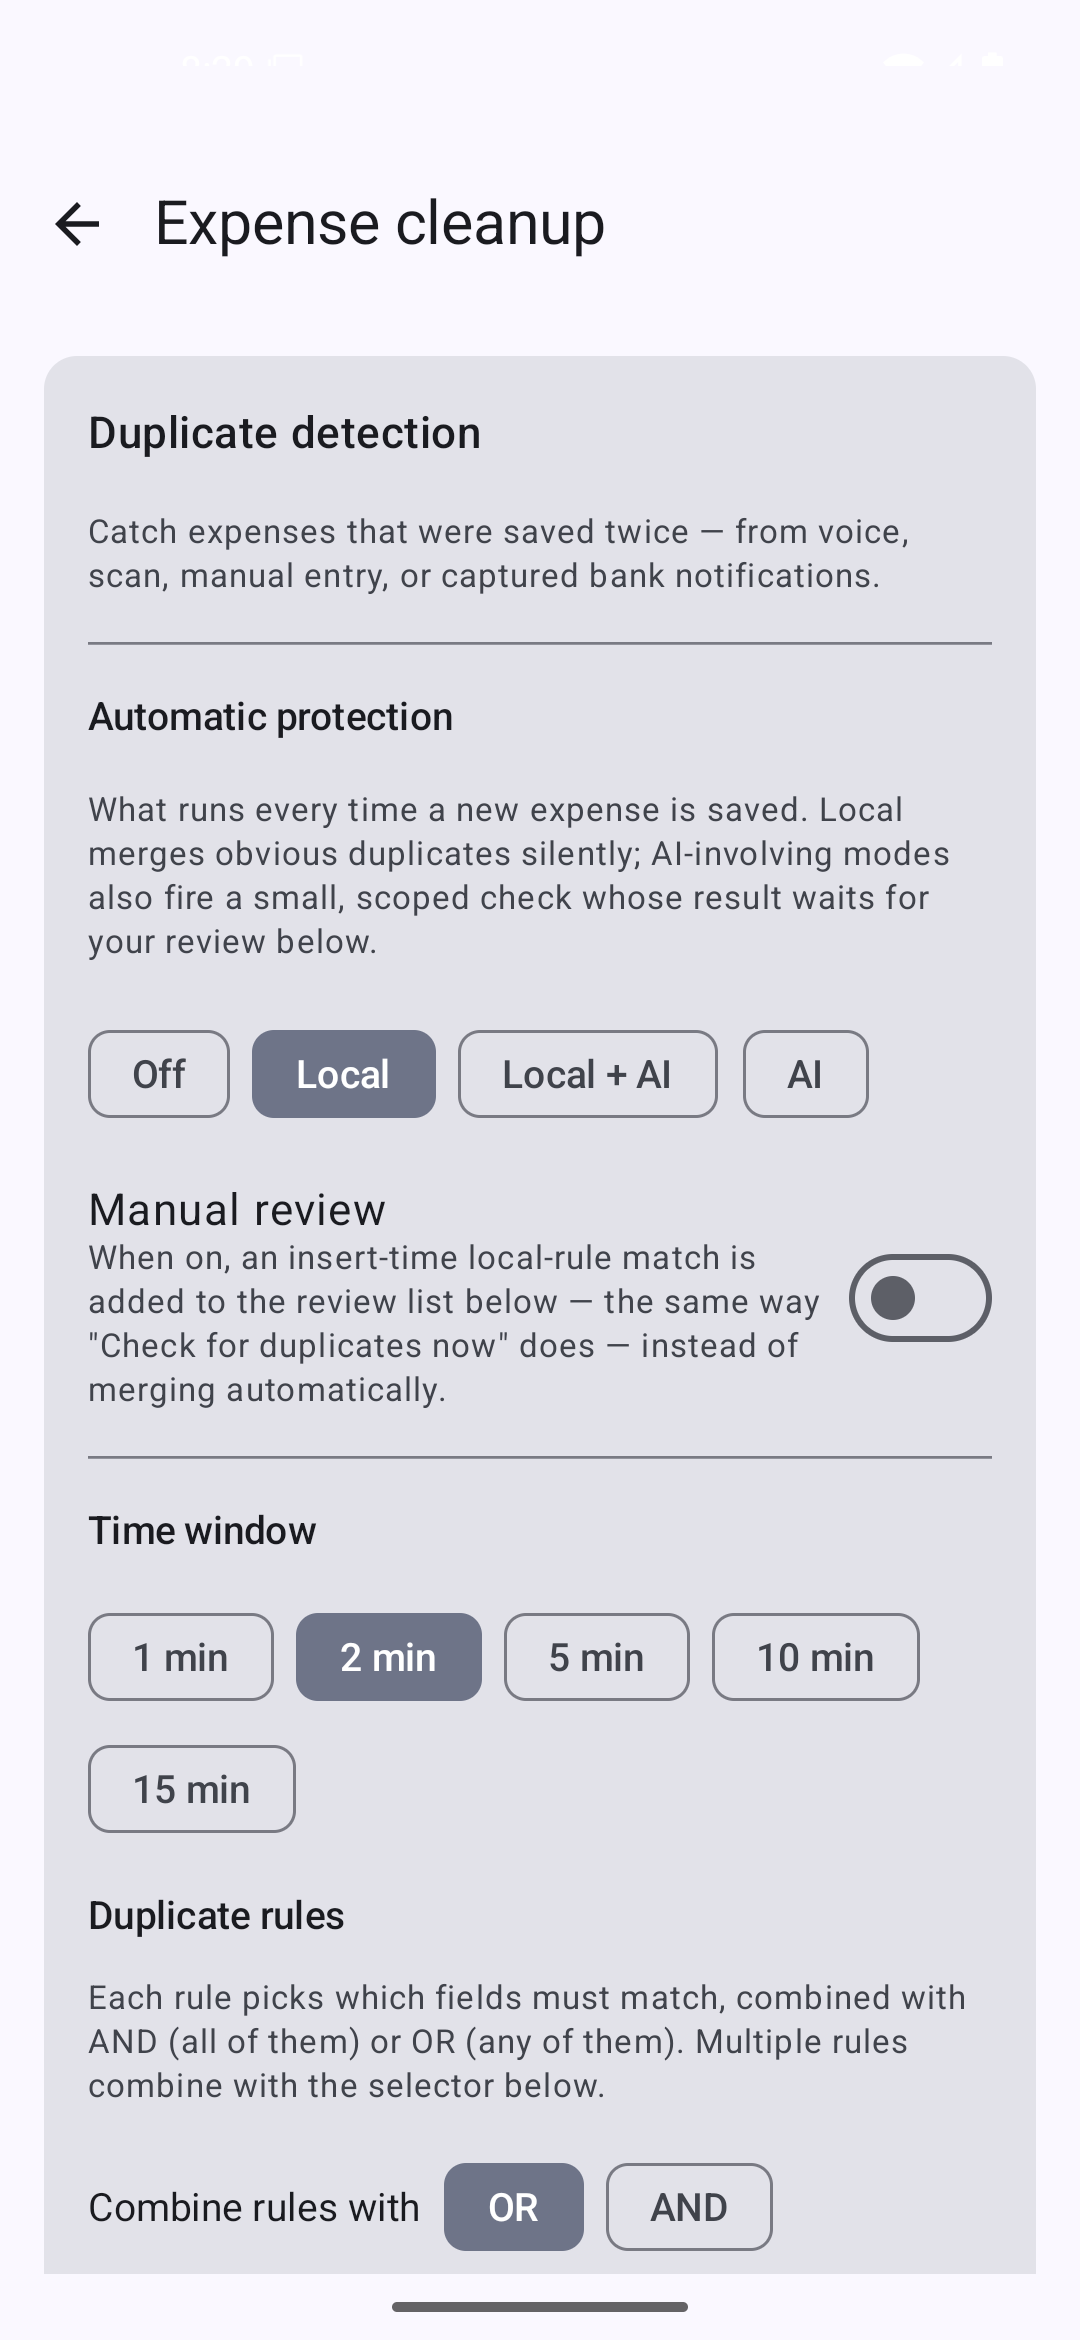
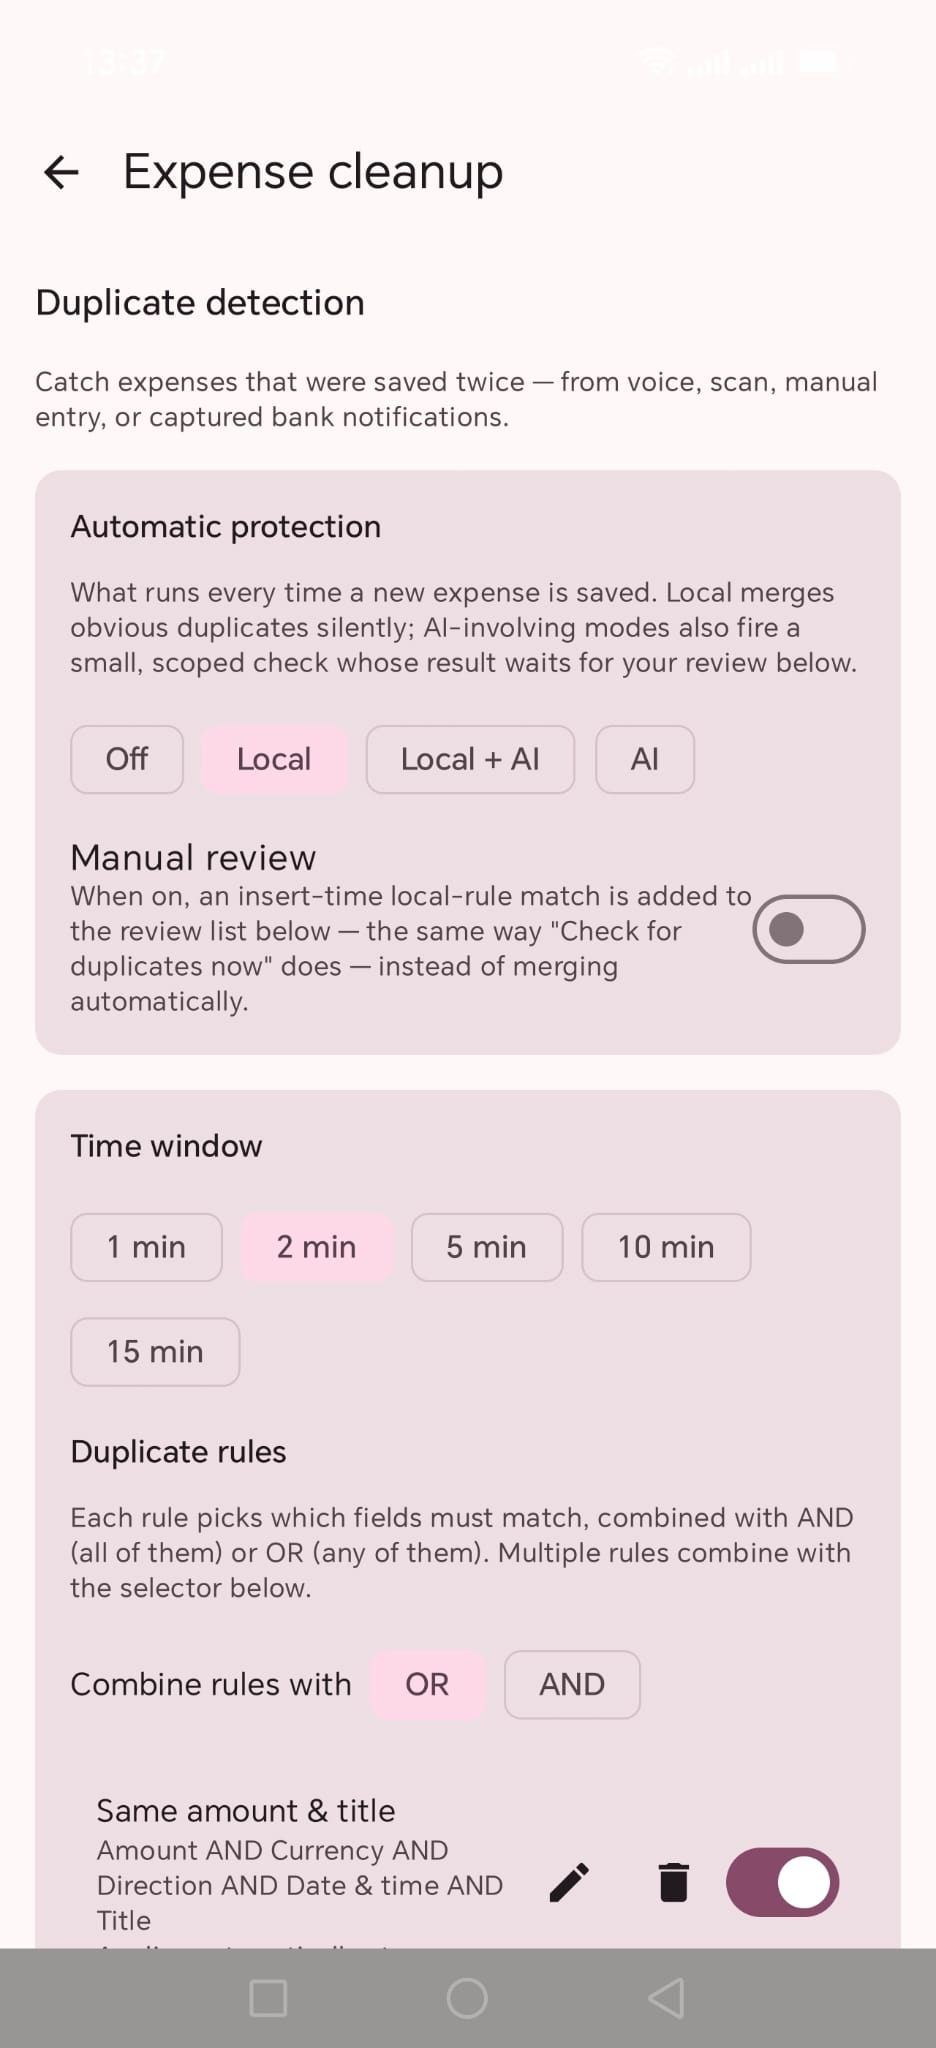
feat(notes,expenses,calendar): scrollable widgets + header tap-to-open
Widget content lists now use Glance's LazyColumn instead of a plain
Column, so long lists scroll instead of clipping; the +Add button
stays pinned outside the scroll area. Tapping the widget header now
launches the app directly. Fixes a rendering bug found along the way:
Notes' per-day content wasn't wrapped in a single root Column inside
the LazyColumn item, which Glance/RemoteViews requires — without it,
rows overlapped instead of stacking.

Also updates vox-expenses' fastlane duplicate-detection screenshots
to reflect the current cleanup UI.

Changed region(s): [[0.0, 0.0625, 1.0, 1.0], [0.8985, 0.4375, 0.9295, 0.4688]]

diff --git a/vox-notes/src/main/java/com/voxapps/notes/ui/widget/NotesWidget.kt b/vox-notes/src/main/java/com/voxapps/notes/ui/widget/NotesWidget.kt
@@ -19,6 +19,8 @@ import androidx.glance.appwidget.action.ActionCallback
 import androidx.glance.appwidget.action.actionRunCallback
 import androidx.glance.appwidget.action.actionStartActivity
 import androidx.glance.appwidget.cornerRadius
+import androidx.glance.appwidget.lazy.LazyColumn
+import androidx.glance.appwidget.lazy.items
 import androidx.glance.appwidget.provideContent
 import androidx.glance.background
 import androidx.glance.layout.Alignment
@@ -83,6 +85,7 @@ class NotesWidget : GlanceAppWidget() {
         val addIntent = Intent(context, NotesActivity::class.java).apply {
             putExtra(NotesActivity.EXTRA_QUICK_ADD, true)
         }
+        val openAppIntent = Intent(context, NotesActivity::class.java)
         val locale = Locale.forLanguageTag(container.settingsRepository.getSnapshot().language)
         val scanEnabled = VoxAppsDiscovery.isAppInstalled(context, VoxIpc.VISION_PACKAGE) &&
             VoxAppsDiscovery.isCommanderInstalled(context)
@@ -94,6 +97,7 @@ class NotesWidget : GlanceAppWidget() {
                     notes = recentNotes,
                     languageManager = container.languageManager,
                     addIntent = addIntent,
+                    openAppIntent = openAppIntent,
                     locale = locale,
                     scanEnabled = scanEnabled
                 )
@@ -122,6 +126,7 @@ private fun NotesWidgetContent(
     notes: List<NoteWithCategory>,
     languageManager: LanguageManager,
     addIntent: Intent,
+    openAppIntent: Intent,
     locale: Locale,
     scanEnabled: Boolean
 ) {
@@ -132,7 +137,9 @@ private fun NotesWidgetContent(
             .padding(12.dp)
     ) {
         Row(
-            modifier = GlanceModifier.fillMaxWidth(),
+            modifier = GlanceModifier
+                .fillMaxWidth()
+                .clickable(actionStartActivity(openAppIntent)),
             verticalAlignment = Alignment.Vertical.CenterVertically
         ) {
             Text(
@@ -206,7 +213,7 @@ private fun RecentNotesList(notes: List<NoteWithCategory>, languageManager: Lang
     val today = LocalDate.now(zoneId)
     val recent = notes
         .sortedByDescending { it.note.createdAt }
-        .take(6)
+        .take(20)
 
     if (recent.isEmpty()) {
         Text(
@@ -221,62 +228,64 @@ private fun RecentNotesList(notes: List<NoteWithCategory>, languageManager: Lang
     val grouped = recent.groupBy { Instant.ofEpochMilli(it.note.createdAt).atZone(zoneId).toLocalDate() }
     val context = LocalContext.current
 
-    Column {
-        grouped.forEach { (date, items) ->
+    LazyColumn(modifier = GlanceModifier.fillMaxSize()) {
+        items(grouped.entries.toList(), itemId = { it.key.toEpochDay() }) { (date, items) ->
             val isToday = date == today
-            DaySeparatorLabel(date, today, languageManager, locale)
-            Box(
-                modifier = GlanceModifier
-                    .fillMaxWidth()
-                    .height(if (isToday) 2.dp else 1.dp)
-                    .background(if (isToday) GlanceTheme.colors.primary else GlanceTheme.colors.outline)
-            ) {}
-
-            items.forEach { item ->
-                val editIntent = Intent(context, NotesActivity::class.java).apply {
-                    putExtra(NotesActivity.EXTRA_EDIT_NOTE_ID, item.note.id)
-                }
-                val hasTitle = !item.note.title.isNullOrBlank()
-                val categoryColor = item.category?.let { CategoryColors.fromStored(it.colorArgb) }
-                Row(
+            Column {
+                DaySeparatorLabel(date, today, languageManager, locale)
+                Box(
                     modifier = GlanceModifier
                         .fillMaxWidth()
-                        .cornerRadius(6.dp)
-                        .let { m -> if (categoryColor != null) m.background(categoryColor.copy(alpha = ROW_TINT_ALPHA)) else m }
-                        .padding(horizontal = 6.dp, vertical = 4.dp)
-                        .clickable(actionStartActivity(editIntent)),
-                    verticalAlignment = Alignment.Vertical.CenterVertically
-                ) {
-                    if (hasTitle) {
-                        Text(
-                            text = item.note.title.orEmpty(),
-                            maxLines = 1,
-                            style = TextStyle(fontSize = 15.sp, color = GlanceTheme.colors.onSurface),
-                            modifier = GlanceModifier.defaultWeight()
-                        )
-                        if (item.note.text.isNotBlank()) {
-                            Spacer(modifier = GlanceModifier.width(8.dp))
+                        .height(if (isToday) 2.dp else 1.dp)
+                        .background(if (isToday) GlanceTheme.colors.primary else GlanceTheme.colors.outline)
+                ) {}
+
+                items.forEach { item ->
+                    val editIntent = Intent(context, NotesActivity::class.java).apply {
+                        putExtra(NotesActivity.EXTRA_EDIT_NOTE_ID, item.note.id)
+                    }
+                    val hasTitle = !item.note.title.isNullOrBlank()
+                    val categoryColor = item.category?.let { CategoryColors.fromStored(it.colorArgb) }
+                    Row(
+                        modifier = GlanceModifier
+                            .fillMaxWidth()
+                            .cornerRadius(6.dp)
+                            .let { m -> if (categoryColor != null) m.background(categoryColor.copy(alpha = ROW_TINT_ALPHA)) else m }
+                            .padding(horizontal = 6.dp, vertical = 4.dp)
+                            .clickable(actionStartActivity(editIntent)),
+                        verticalAlignment = Alignment.Vertical.CenterVertically
+                    ) {
+                        if (hasTitle) {
+                            Text(
+                                text = item.note.title.orEmpty(),
+                                maxLines = 1,
+                                style = TextStyle(fontSize = 15.sp, color = GlanceTheme.colors.onSurface),
+                                modifier = GlanceModifier.defaultWeight()
+                            )
+                            if (item.note.text.isNotBlank()) {
+                                Spacer(modifier = GlanceModifier.width(8.dp))
+                                Text(
+                                    text = item.note.text,
+                                    maxLines = 2,
+                                    style = TextStyle(
+                                        fontSize = 12.sp,
+                                        color = GlanceTheme.colors.outline,
+                                        textAlign = TextAlign.End
+                                    ),
+                                    modifier = GlanceModifier.defaultWeight()
+                                )
+                            }
+                        } else {
                             Text(
                                 text = item.note.text,
                                 maxLines = 2,
-                                style = TextStyle(
-                                    fontSize = 12.sp,
-                                    color = GlanceTheme.colors.outline,
-                                    textAlign = TextAlign.End
-                                ),
+                                style = TextStyle(fontSize = 15.sp, color = GlanceTheme.colors.onSurface),
                                 modifier = GlanceModifier.defaultWeight()
                             )
                         }
-                    } else {
-                        Text(
-                            text = item.note.text,
-                            maxLines = 2,
-                            style = TextStyle(fontSize = 15.sp, color = GlanceTheme.colors.onSurface),
-                            modifier = GlanceModifier.defaultWeight()
-                        )
                     }
+                    Spacer(modifier = GlanceModifier.height(2.dp))
                 }
-                Spacer(modifier = GlanceModifier.height(2.dp))
             }
         }
     }

diff --git a/vox-calendar/src/main/java/com/voxapps/calendarapp/ui/widget/CalendarWidget.kt b/vox-calendar/src/main/java/com/voxapps/calendarapp/ui/widget/CalendarWidget.kt
@@ -20,6 +20,8 @@ import androidx.glance.appwidget.action.ActionCallback
 import androidx.glance.appwidget.action.actionRunCallback
 import androidx.glance.appwidget.action.actionStartActivity
 import androidx.glance.appwidget.cornerRadius
+import androidx.glance.appwidget.lazy.LazyColumn
+import androidx.glance.appwidget.lazy.items
 import androidx.glance.appwidget.provideContent
 import androidx.glance.background
 import androidx.glance.layout.Alignment
@@ -84,6 +86,7 @@ class CalendarWidget : GlanceAppWidget() {
         val addIntent = Intent(context, CalendarActivity::class.java).apply {
             putExtra(CalendarActivity.EXTRA_QUICK_ADD, true)
         }
+        val openAppIntent = Intent(context, CalendarActivity::class.java)
         val settingsSnapshot = container.settingsRepository.getSnapshot()
         val locale = Locale.forLanguageTag(settingsSnapshot.language)
         val scanEnabled = VoxAppsDiscovery.isAppInstalled(context, VoxIpc.VISION_PACKAGE) &&
@@ -95,6 +98,7 @@ class CalendarWidget : GlanceAppWidget() {
                     uiState = uiState,
                     languageManager = container.languageManager,
                     addIntent = addIntent,
+                    openAppIntent = openAppIntent,
                     locale = locale,
                     scanEnabled = scanEnabled,
                     showEventDetails = settingsSnapshot.showEventDetailsInWidget,
@@ -126,6 +130,7 @@ private fun CalendarWidgetContent(
     uiState: CalendarUiState,
     languageManager: LanguageManager,
     addIntent: Intent,
+    openAppIntent: Intent,
     locale: Locale,
     scanEnabled: Boolean,
     showEventDetails: Boolean,
@@ -140,7 +145,9 @@ private fun CalendarWidgetContent(
             .padding(12.dp)
     ) {
         Row(
-            modifier = GlanceModifier.fillMaxWidth(),
+            modifier = GlanceModifier
+                .fillMaxWidth()
+                .clickable(actionStartActivity(openAppIntent)),
             verticalAlignment = Alignment.Vertical.CenterVertically
         ) {
             Text(
@@ -231,7 +238,7 @@ private fun UpcomingEntriesList(
     val upcoming = entries
         .filter { !it.entry.completed && (it.entry.endMillis ?: it.entry.startMillis) >= startOfToday }
         .sortedBy { it.entry.startMillis }
-        .take(6)
+        .take(20)
 
     if (upcoming.isEmpty()) {
         Text(
@@ -253,8 +260,8 @@ private fun UpcomingEntriesList(
         if (startDate.isBefore(today)) today else startDate
     }
 
-    Column {
-        grouped.forEach { (date, items) ->
+    LazyColumn(modifier = GlanceModifier.fillMaxSize()) {
+        items(grouped.entries.toList(), itemId = { it.key.toEpochDay() }) { (date, items) ->
             val dayContent: @Composable () -> Unit = {
                 DaySeparatorLabel(date, today, languageManager, locale)
 

diff --git a/vox-expenses/src/main/java/com/voxapps/expenses/ui/widget/ExpensesWidget.kt b/vox-expenses/src/main/java/com/voxapps/expenses/ui/widget/ExpensesWidget.kt
@@ -20,6 +20,8 @@ import androidx.glance.appwidget.action.ActionCallback
 import androidx.glance.appwidget.action.actionRunCallback
 import androidx.glance.appwidget.action.actionStartActivity
 import androidx.glance.appwidget.cornerRadius
+import androidx.glance.appwidget.lazy.LazyColumn
+import androidx.glance.appwidget.lazy.items
 import androidx.glance.appwidget.provideContent
 import androidx.glance.background
 import androidx.glance.layout.Alignment
@@ -86,6 +88,7 @@ class ExpensesWidget : GlanceAppWidget() {
         val addIntent = Intent(context, ExpensesActivity::class.java).apply {
             putExtra(ExpensesActivity.EXTRA_QUICK_ADD, true)
         }
+        val openAppIntent = Intent(context, ExpensesActivity::class.java)
         val settingsSnapshot = container.settingsRepository.getSnapshot()
         val locale = Locale.forLanguageTag(settingsSnapshot.language)
 
@@ -99,6 +102,7 @@ class ExpensesWidget : GlanceAppWidget() {
                     expenses = recentExpenses,
                     languageManager = container.languageManager,
                     addIntent = addIntent,
+                    openAppIntent = openAppIntent,
                     locale = locale,
                     scanEnabled = scanEnabled,
                     borderEnabled = settingsSnapshot.widgetBorderEnabled,
@@ -130,6 +134,7 @@ private fun ExpensesWidgetContent(
     expenses: List<ExpenseWithDetails>,
     languageManager: LanguageManager,
     addIntent: Intent,
+    openAppIntent: Intent,
     locale: Locale,
     scanEnabled: Boolean,
     borderEnabled: Boolean,
@@ -143,7 +148,9 @@ private fun ExpensesWidgetContent(
             .padding(12.dp)
     ) {
         Row(
-            modifier = GlanceModifier.fillMaxWidth(),
+            modifier = GlanceModifier
+                .fillMaxWidth()
+                .clickable(actionStartActivity(openAppIntent)),
             verticalAlignment = Alignment.Vertical.CenterVertically
         ) {
             Text(
@@ -227,7 +234,7 @@ private fun RecentExpensesList(
     val today = LocalDate.now(zoneId)
     val recent = expenses
         .sortedByDescending { it.expense.dateTime }
-        .take(6)
+        .take(20)
 
     if (recent.isEmpty()) {
         Text(
@@ -242,8 +249,8 @@ private fun RecentExpensesList(
     val grouped = recent.groupBy { Instant.ofEpochMilli(it.expense.dateTime).atZone(zoneId).toLocalDate() }
     val context = LocalContext.current
 
-    Column {
-        grouped.forEach { (date, items) ->
+    LazyColumn(modifier = GlanceModifier.fillMaxSize()) {
+        items(grouped.entries.toList(), itemId = { it.key.toEpochDay() }) { (date, items) ->
             val dayContent: @Composable () -> Unit = {
                 DaySeparatorLabel(date, today, languageManager, locale)
 

diff --git a/docs/BUILD_AND_RELEASE.md b/docs/BUILD_AND_RELEASE.md
@@ -1,0 +1,100 @@
+# Build & Release Guide
+
+How to build APKs locally, how the per-app GitHub Actions release workflows work, how to force a
+rebuild without bumping a version, and how fastlane screenshots are captured. For vendored
+native-library build steps (Whisper.cpp, Vosk, OpenCV, etc.) see `BUILD_TIME_DEPENDENCIES.md`
+instead — this doc is about the app APKs themselves.
+
+## Local builds
+
+**Debug** (emulator-only — see the release-only install rule below):
+
+```
+./gradlew :vox-<app>:assembleDebug
+```
+
+**Signed release** (installable on a real device without wiping its signed data):
+
+```
+cd /Users/swimnobody/StudioProjects/VoxApps
+export RELEASE_KEYSTORE_PATH=~/Downloads/voxapps-release.jks
+export RELEASE_KEYSTORE_PASSWORD=$(cat ~/Downloads/keystore_password.txt | tr -d '[:space:]')
+./gradlew :vox-<app>:assembleRelease --no-daemon
+```
+
+`<app>` is one of `vox-commander`, `vox-expenses`, `vox-calendar`, `vox-notes`, `vox-hub`,
+`vox-vision`. Multiple `assembleRelease` targets can be listed in one invocation. Without the two
+env vars set, `assembleRelease` still succeeds but produces an **unsigned** APK that can't be
+installed over an existing signed install.
+
+**Never install a debug APK over a real device's existing release install** — the signature
+mismatch forces Android to uninstall first, wiping that app's local data. Debug APKs are fine on a
+disposable emulator only.
+
+## GitHub Actions release workflows
+
+Each app has its own `.github/workflows/release-<app>.yml` (e.g. `release-expenses.yml`). They're
+independent — releasing one app never touches another's release history. Common shape:
+
+```yaml
+on:
+  push:
+    tags: ["<app>-v*"]
+    branches: [main]
+    paths: ["vox-<app>/build.gradle.kts"]
+  workflow_dispatch: {}
+```
+
+- **Push to `main` that touches `vox-<app>/build.gradle.kts`** — the usual path. A `check_bump`
+  step diffs the previous commit's `versionCode` against the current one; if unchanged, every
+  downstream step (tests, build, release) is skipped via `if: steps.check_bump.outputs.changed !=
+  'false'`. This is what makes "bump versionCode, commit, push" the normal release trigger.
+- **Direct tag push** (`<app>-v1.2`) — builds and releases under that exact tag.
+- **`workflow_dispatch`** (manual run) — **bypasses `check_bump` entirely**, because that step's
+  own `if` condition is `github.event_name == 'push'`. A manual dispatch run always builds and
+  releases, version bump or not. This is the way to force a rebuild (picking up a code fix,
+  dependency bump, etc.) without touching `versionCode`/`versionName`.
+
+  ```
+  gh workflow run release-<app>.yml   # e.g. release-expenses.yml
+  ```
+
+  or via the GitHub UI: **Actions → "Build Vox \<App> Release APK" → Run workflow** (branch
+  `main`).
+
+  Caveat: the release tag is still computed from the *current* `versionName` (see
+  `.github/actions/compute-release-tag/action.yml`), so a forced run with no version change
+  recreates the same tag; `softprops/action-gh-release` updates that release's assets in place
+  rather than failing.
+
+Tag convention: `<app>-v<versionName>` (e.g. `expenses-v0.15`). A `versionName` containing
+`-beta`/`-rc`/`-alpha` is marked as a GitHub prerelease automatically.
+
+## Fastlane screenshots
+
+Each app's F-Droid/IzzyOnDroid metadata screenshots live at
+`<app>/fastlane/metadata/android/en-US/images/phoneScreenshots/{1,2,3,...}.png`. Captured
+manually against the emulator (or, for UI that only exists after real usage — e.g. the expense
+duplicate-review screen — copied in from a physical-device screenshot):
+
+```
+adb exec-out screencap -p > shot.png
+```
+
+For navigating to a specific screen precisely (rather than guessing tap coordinates from a
+screenshot), dump the current layout and read exact element bounds instead of eyeballing
+coordinates:
+
+```
+adb shell uiautomator dump
+adb pull /sdcard/window_dump.xml
+# grep the target element's `bounds="[x1,y1][x2,y2]"` and tap its center
+```
+
+## F-Droid distribution
+
+VoxApps APKs are also mirrored into a separate, serverless F-Droid repo:
+[`razvan-eduard/vox-fdroid-repo`](https://github.com/razvan-eduard/vox-fdroid-repo) (see that
+repo's own `USAGE.md`). It pulls the latest tagged release per app from this repo's GitHub
+Releases — so once a `release-<app>.yml` run above publishes a release, either the daily cron or a
+manual `gh workflow run deploy.yml --repo razvan-eduard/vox-fdroid-repo` picks it up.
